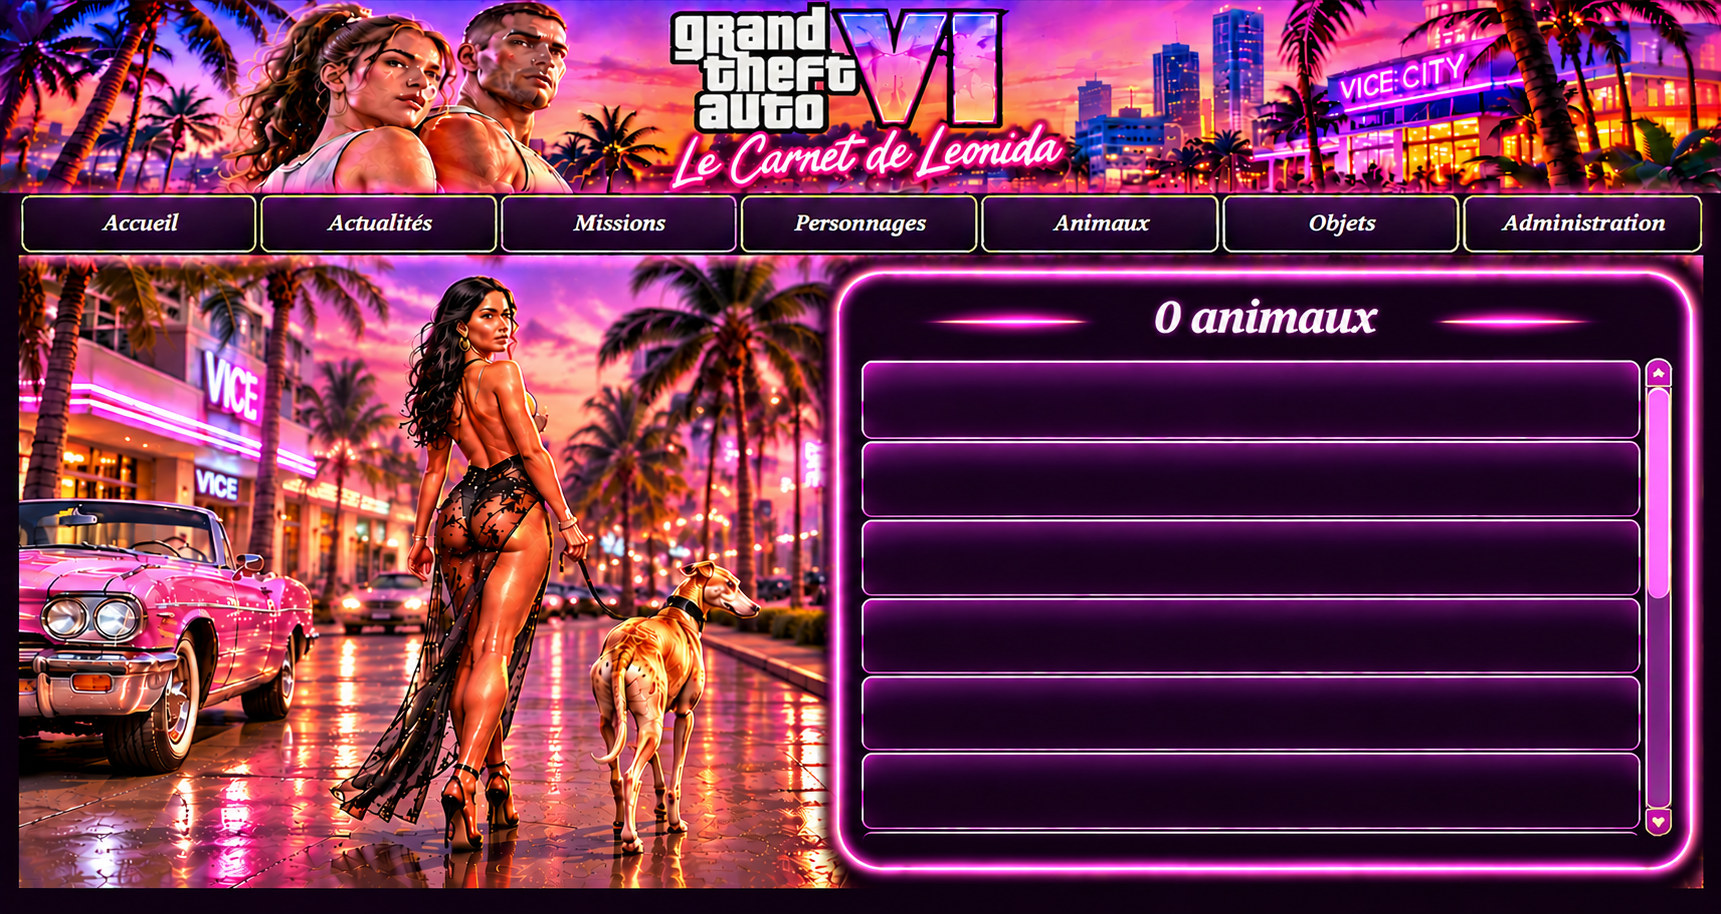
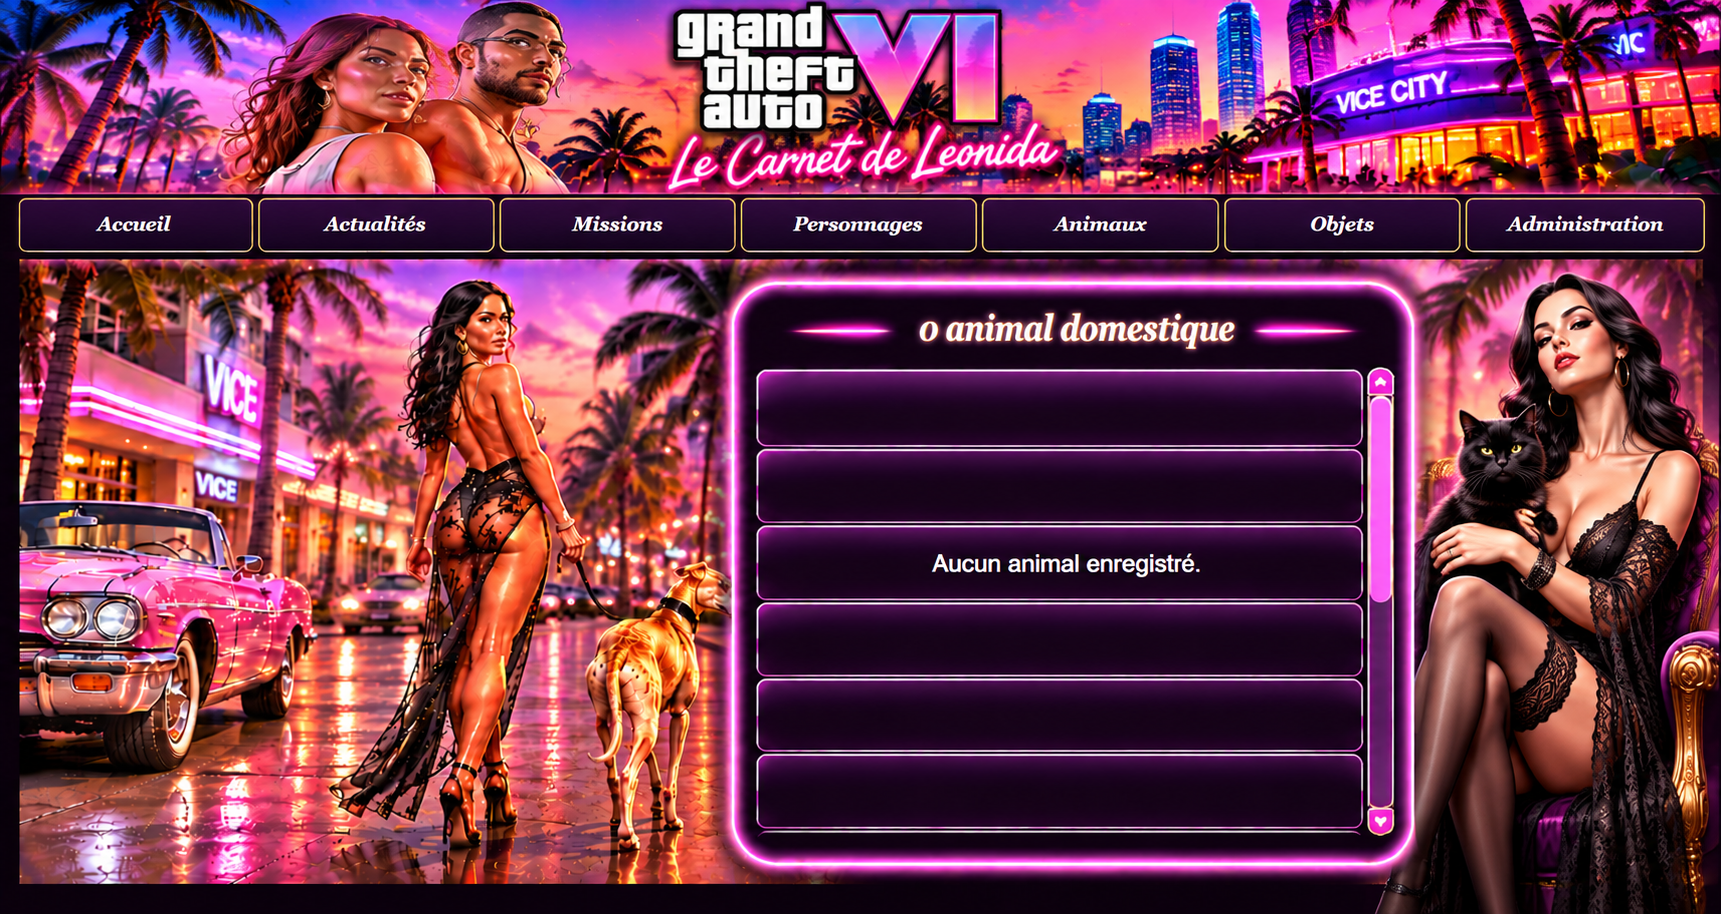
Add files via upload

diff --git a/animaux-domestiques.html b/animaux-domestiques.html
@@ -48,7 +48,38 @@ body.board-open{overflow:hidden}
 .board.expanded{left:0;top:0;width:100vw;height:100dvh;background:#160920;padding:2%;gap:12px}
 .board.expanded .board-controls{height:65px;min-height:65px}
 .board.expanded .person-item{min-height:90px}
-</style></head><body><div class="scroll"><main class="scene"><img src="animaux-domestiques.png" alt="Mortitia promenant son lévrier dans Vice City"><nav class="menu" aria-label="Navigation principale"><a href="index.html">Accueil</a><a href="actualites.html">Actualités</a><a href="missions.html">Missions</a><a href="personnages.html">Personnages</a><a href="animaux.html">Animaux</a><a href="objets.html">Objets</a><a href="admin.html">Administration</a></nav>
+
+/* Calage sur le dernier PNG validé : compteur et lignes interactifs. */
+.menu{top:20.8%;height:6.5%}
+.board{left:49.1%;top:29.1%;width:48.1%;height:63.8%;padding:0;background:transparent;box-shadow:none;border:0;gap:0;pointer-events:none}
+.board-count{position:absolute;top:2%;left:31%;width:40%;height:9%;display:flex;align-items:center;justify-content:center;background:#250927;color:#fff3fb;font:italic bold clamp(14px,1.9vw,30px) Georgia,serif;text-shadow:0 0 8px #fa5cc9;pointer-events:none}
+.board-controls{position:absolute;top:0;right:1%;width:7%;height:11%;min-height:0;pointer-events:auto;opacity:.01}
+.board-controls .expand{width:100%;height:100%;min-width:0;border:0;background:transparent}
+.people-list{position:absolute;left:3.1%;top:15.6%;width:92.2%;height:81.7%;padding:0;gap:.4%;overflow:auto;pointer-events:auto;scrollbar-width:none}
+.person-item{flex:none;min-height:0;height:16.2%;padding:0 3%;background:#1a0829dc;border:1px solid #ed7bd3;border-radius:7px;font-size:clamp(13px,1.45vw,24px)}
+.person-item:hover{background:#391047e8}
+.people-empty{display:none}
+.board.expanded{position:fixed;inset:0;width:100vw;height:100dvh;background:#160920;padding:2%;pointer-events:auto}
+.board.expanded .board-count{position:static;width:auto;height:auto;background:transparent}
+.board.expanded .board-controls{position:absolute;right:2%;top:2%;opacity:1;width:60px;height:60px}
+.board.expanded .people-list{position:static;width:100%;height:auto;flex:1;overflow:auto;scrollbar-width:auto;padding-top:70px}
+.board.expanded .person-item{height:auto;min-height:90px}
+
+/* Alignement sur le décor validé avec Mortitia et son chat (1721 × 914). */
+.menu{top:20.8%;height:6.8%;}
+.board{left:42.3%;top:29.7%;width:37.9%;height:61.7%;padding:0;gap:0;background:transparent;border:0;box-shadow:none;pointer-events:none;}
+.board-count{position:absolute;top:3.8%;left:24%;width:54%;height:9%;padding:0 2%;display:flex;align-items:center;justify-content:center;background:#220822;color:#fff3fb;font:italic bold clamp(12px,1.65vw,25px)/1.1 Georgia,serif;text-shadow:0 0 9px #ff65d6;border-radius:5px;pointer-events:none;}
+.board-controls{position:absolute;right:1%;top:12%;width:5%;height:7%;min-height:0;opacity:0;pointer-events:auto;}
+.people-list{position:absolute;left:3.7%;top:17.1%;width:89.6%;height:79.5%;padding:0;gap:0;overflow:auto;scrollbar-width:none;pointer-events:auto;}
+.person-item{flex:none;height:16.5%;min-height:0;margin:0 0 .35%;padding:0 3%;background:#1c0928f2;border:1px solid #ec80da;border-radius:7px;color:white;font-size:clamp(12px,1.4vw,22px);}
+.person-item:hover{background:#3a1249;}
+.people-empty{display:none;}
+.board.expanded{position:fixed;inset:0;width:100vw;height:100dvh;padding:2%;background:#160920;pointer-events:auto;}
+.board.expanded .board-count{position:static;width:auto;height:auto;background:transparent;}
+.board.expanded .board-controls{position:absolute;right:2%;top:2%;width:60px;height:60px;opacity:1;}
+.board.expanded .people-list{position:static;width:100%;height:auto;flex:1;padding-top:65px;overflow:auto;scrollbar-width:auto;}
+.board.expanded .person-item{height:auto;min-height:90px;}
+</style></head><body><div class="scroll"><main class="scene"><img src="animaux-domestiques.png" alt="Mortitia et son lévrier à gauche, Mortitia avec son chat à droite, à Vice City"><nav class="menu" aria-label="Navigation principale"><a href="index.html">Accueil</a><a href="actualites.html">Actualités</a><a href="missions.html">Missions</a><a href="personnages.html">Personnages</a><a href="animaux.html">Animaux</a><a href="objets.html">Objets</a><a href="admin.html">Administration</a></nav>
 <section id="board" class="board" aria-label="Tableau des animaux domestiques">
 <div id="personCount" class="board-count" aria-live="polite">Chargement des animaux…</div>
 <div id="tabs" class="board-controls" role="group" aria-label="Agrandissement du tableau"></div>
@@ -62,7 +93,7 @@ function showToast(t){const el=document.getElementById('toast');el.textContent=t
 const expand=document.createElement('button');expand.type='button';expand.className='expand';expand.textContent='□';expand.title='Agrandir le tableau';expand.setAttribute('aria-label','Agrandir le tableau');expand.setAttribute('aria-pressed','false');tabs.appendChild(expand);
 function toggleBoard(force){const expanded=typeof force==='boolean'?force:!board.classList.contains('expanded');board.classList.toggle('expanded',expanded);document.body.classList.toggle('board-open',expanded);expand.textContent=expanded?'×':'□';expand.title=expanded?'Réduire le tableau':'Agrandir le tableau';expand.setAttribute('aria-label',expand.title);expand.setAttribute('aria-pressed',String(expanded))}
 expand.addEventListener('click',()=>toggleBoard());document.addEventListener('keydown',e=>{if(e.key==='Escape'&&board.classList.contains('expanded')&&back.style.display!=='flex')toggleBoard(false)});
-function render(){rows.replaceChildren();const items=entries[active];personCount.textContent=items.length+' animal'+(items.length>1?'aux':'')+' domestique'+(items.length>1?'s':'');if(!items.length){const empty=document.createElement('div');empty.className='people-empty';empty.textContent='Aucun animal enregistré.';rows.appendChild(empty);return}items.forEach(entry=>{const btn=document.createElement('button');btn.type='button';btn.className='person-item';btn.setAttribute('aria-label','Voir la fiche de '+entry.name);btn.addEventListener('click',()=>open(entry));if(entry.image){const img=document.createElement('img');img.src=entry.image;img.alt='';img.loading='lazy';btn.appendChild(img)}else{const ph=document.createElement('span');ph.className='person-placeholder';btn.appendChild(ph)}const label=document.createElement('span');label.textContent=entry.name;btn.appendChild(label);rows.appendChild(btn)})}
+function render(){rows.replaceChildren();const items=entries[active];personCount.textContent=items.length+' '+(items.length===1?'animal':'animaux');if(!items.length){const empty=document.createElement('div');empty.className='people-empty';empty.textContent='';rows.appendChild(empty);return}items.forEach(entry=>{const btn=document.createElement('button');btn.type='button';btn.className='person-item';btn.setAttribute('aria-label','Voir la fiche de '+entry.name);btn.addEventListener('click',()=>open(entry));if(entry.image){const img=document.createElement('img');img.src=entry.image;img.alt='';img.loading='lazy';btn.appendChild(img)}else{const ph=document.createElement('span');ph.className='person-placeholder';btn.appendChild(ph)}const label=document.createElement('span');label.textContent=entry.name;btn.appendChild(label);rows.appendChild(btn)})}
 let currentPerson=null;function open(entry){currentPerson=entry;resetDelete();document.getElementById("deleteArea").hidden=!entry.id;document.getElementById('title').textContent=entry.name;let d=document.getElementById('details');d.replaceChildren();if(entry.image){let img=document.createElement('img');img.className='portrait';img.src=entry.image;img.alt='Photo de '+entry.name+' (extrait du décor validé)';d.appendChild(img)}for(const [titre,contenu] of [['Catégorie',entry.role],['Description',entry.description],['Habitat / lieux connus',entry.lieux]]){let p=document.createElement('p');p.className='detail-line';let strong=document.createElement('strong');strong.textContent=titre+' : ';p.appendChild(strong);p.appendChild(document.createTextNode(contenu||'Non renseigné'));d.appendChild(p)}let clear=document.createElement('div');clear.className='clear';d.appendChild(clear);let note=document.createElement('p');note.style.fontSize='12px';note.style.color='#cbb7d2';note.textContent=entry.published?'Fiche publiée depuis l’administration du Carnet de Leonida.':'Biographie : informations officielles Rockstar Games. Portrait : illustration du site.';d.appendChild(note);back.style.display='flex';document.getElementById('close').focus()}function close(){back.style.display='none';currentPerson=null;resetDelete()}document.getElementById('close').onclick=close;document.getElementById('return').onclick=close;back.onclick=e=>{if(e.target===back)close()};document.addEventListener('keydown',e=>{if(e.key==='Escape')close()});
 async function loadPeople(){try{const res=await fetch('https://gta6worker.michelmalandain.workers.dev/personnages',{cache:'no-store'});if(!res.ok)throw Error('HTTP '+res.status);const data=await res.json();if(!Array.isArray(data.personnages))throw Error('Format inattendu');for(const item of data.personnages){const kind=(item.kind||'').toLocaleLowerCase('fr');const group=(item.category||item.categorie||item.type||'').toLocaleLowerCase('fr');if(!kind.includes('animau')&&!kind.includes('animal')&&!group.includes('domest'))continue;if(group && !group.includes('domest') && !kind.includes('domest'))continue;const i=0;const entry={name:item.name,role:item.category||item.categorie||'Animal domestique',image:item.image||'',description:item.summary||'',lieux:item.place||'',relations:'',missions:'',published:true,id:item.id};const old=entries[i].findIndex(e=>e.name.toLocaleLowerCase('fr')===entry.name.toLocaleLowerCase('fr'));if(old>=0)entries[i][old]=entry;else entries[i].push(entry)}render();}catch(e){personCount.textContent='Chargement indisponible : '+e.message}}
 const deleteArea=document.getElementById('deleteArea'),deleteAuth=document.getElementById('deleteAuth'),deleteToken=document.getElementById('deleteToken'),deleteTrigger=document.getElementById('deleteTrigger'),deleteConfirm=document.getElementById('deleteConfirm'),deleteStatus=document.getElementById('deleteStatus'),deleteToggle=document.getElementById('deleteToggle');
